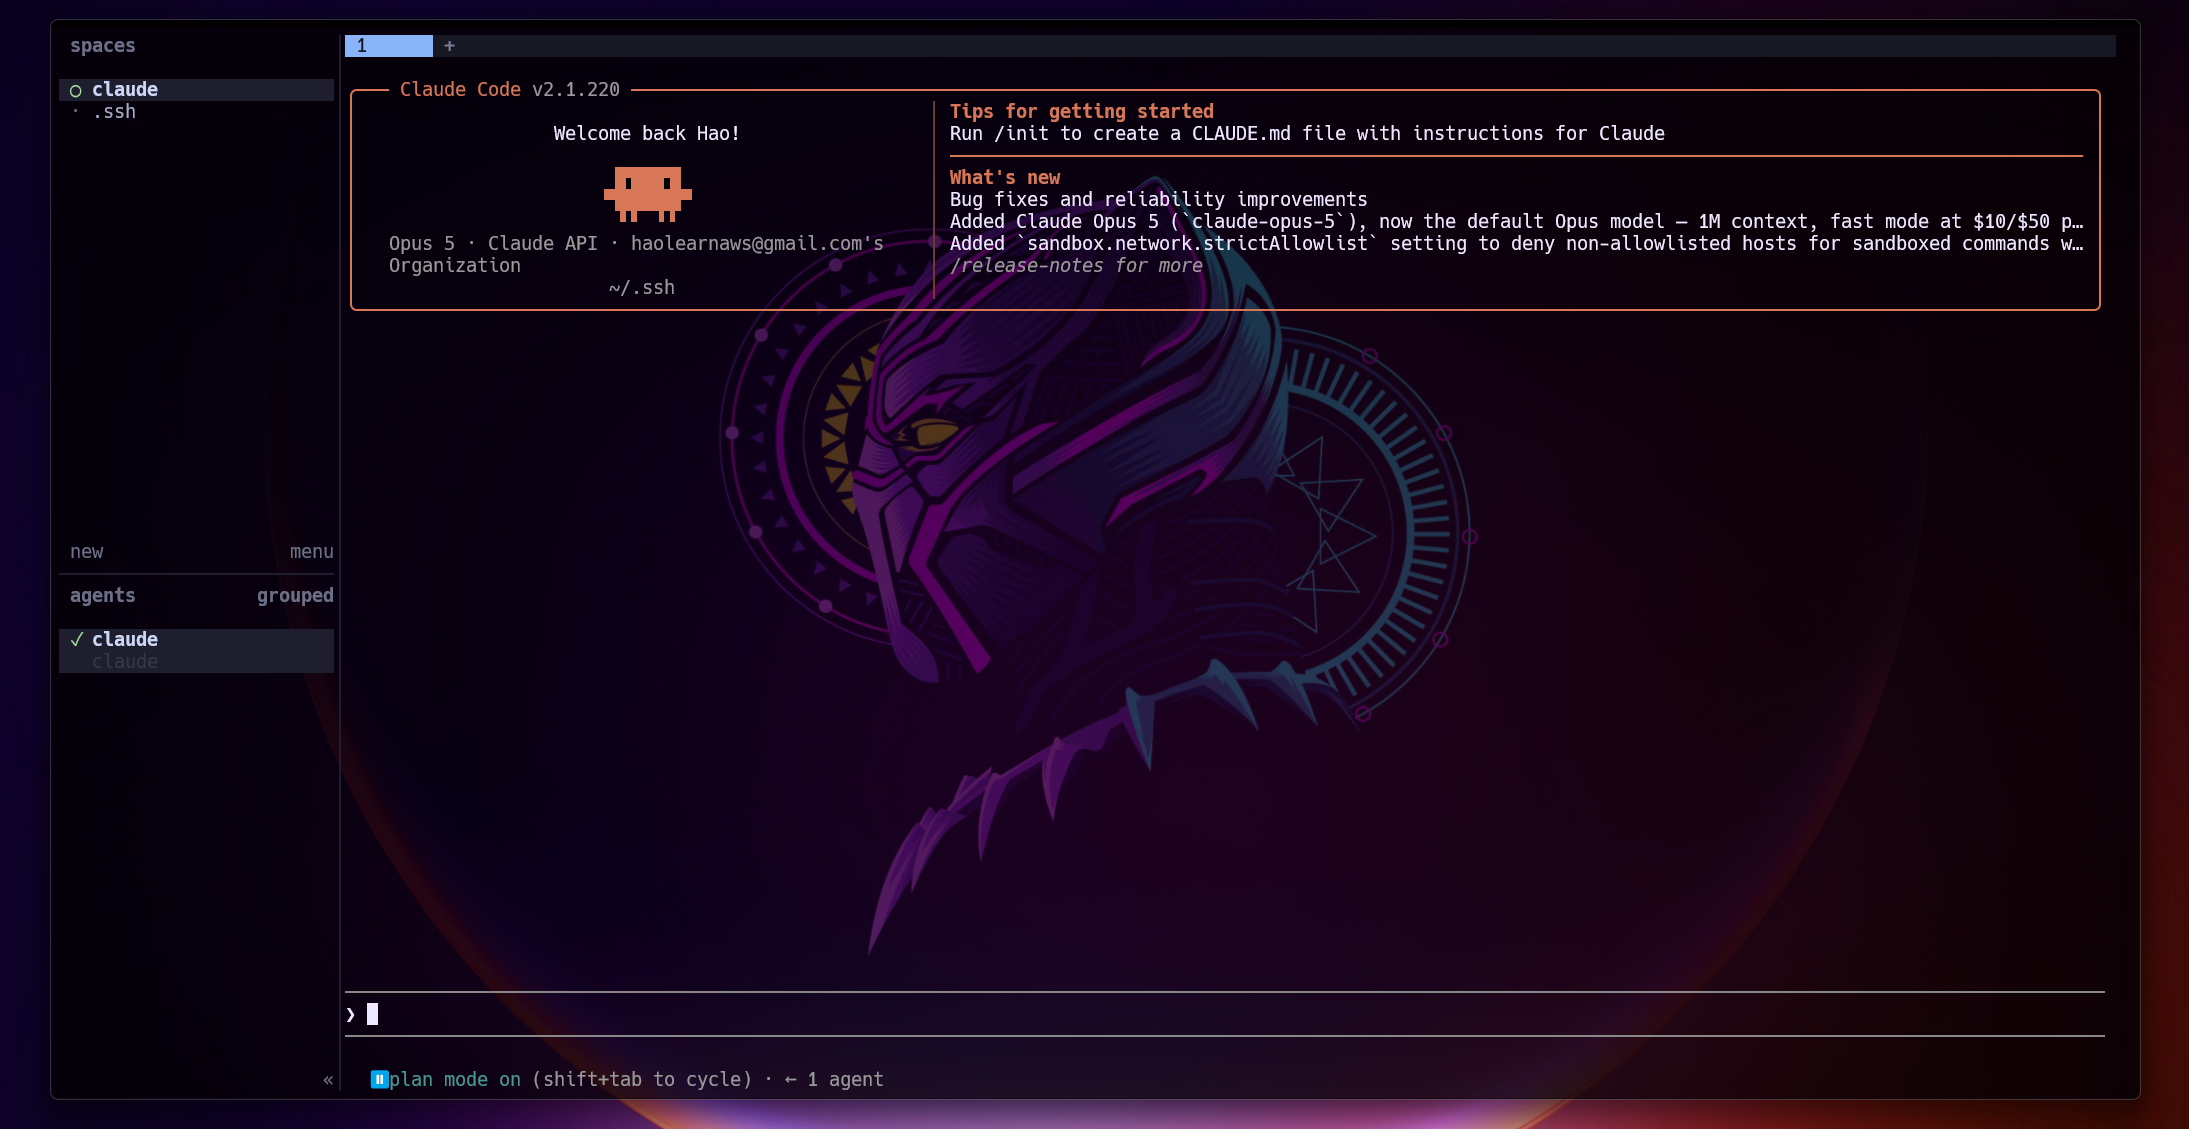
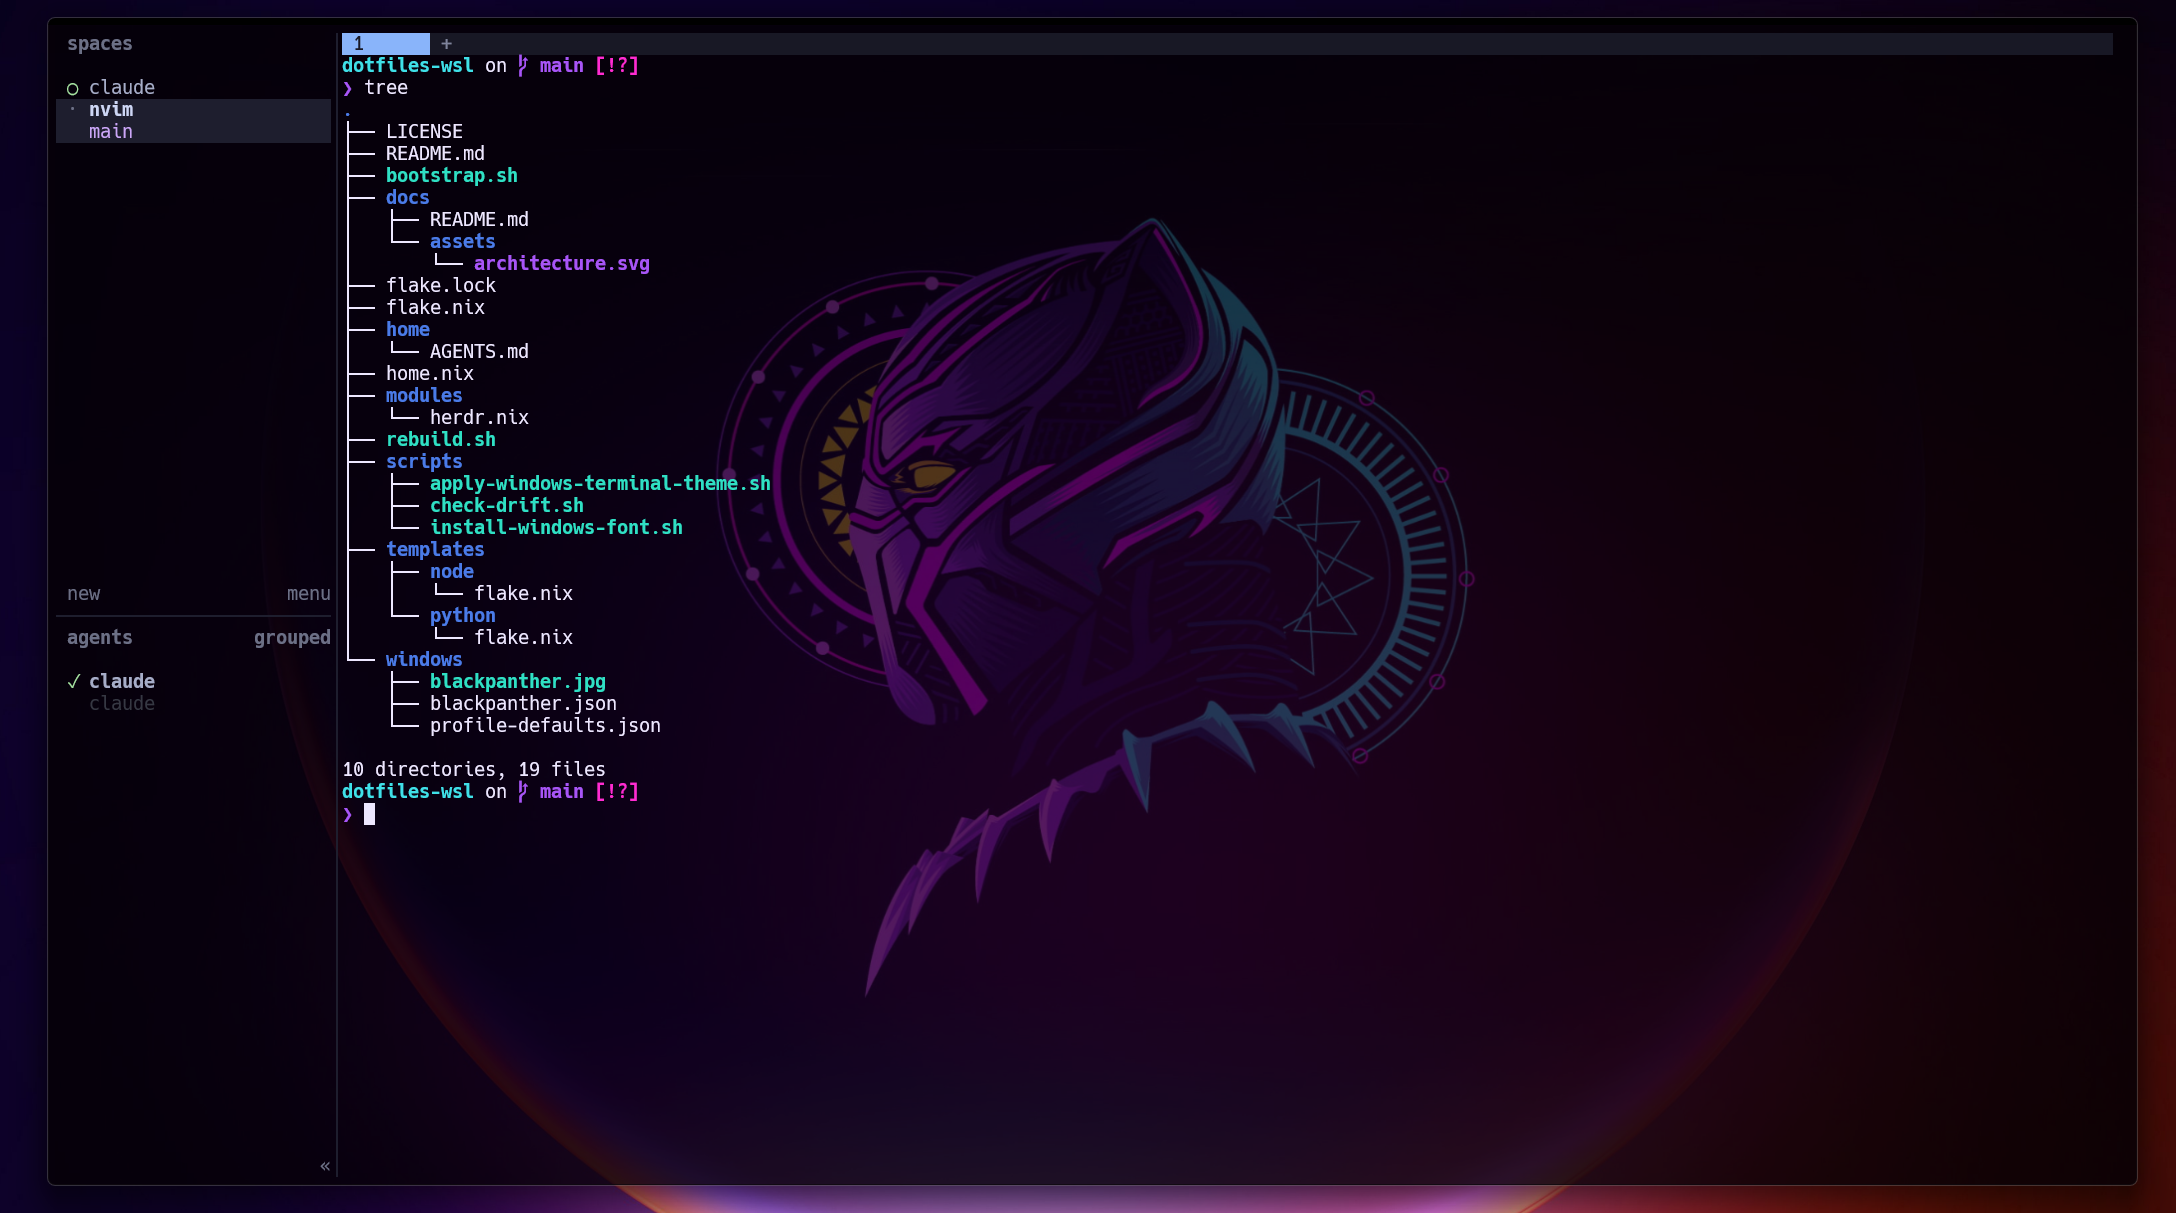
README: swap the screenshot for one showing the repo itself (#7)
The first screenshot showed a Claude Code session, which demonstrated
the terminal setup but said nothing about this repo. This one runs
`tree` over the repo instead, so the same frame shows both: the theme,
font and multiplexer on one side, and bootstrap.sh, rebuild.sh,
home.nix, scripts/ and templates/ on the other.

It also drops an email address that was visible in the old shot's
header. Harmless on a repo page, less so once the image travels.

Alt text rewritten to match - it described the Claude Code session and
would otherwise have been wrong for every screen reader.

Losslessly optimised with oxipng (816K -> 580K, pixel-identical).

diff --git a/README.md b/README.md
@@ -20,12 +20,12 @@ had before.
 
 <p align="center">
   <img src="docs/assets/screenshot.png" width="900"
-       alt="Windows Terminal after setup. herdr runs down the left with its spaces and agents panels; a Claude Code session fills the main pane. The blackpanther colour scheme and its background image show through the terminal's opacity, drawn in Hack Nerd Font.">
+       alt="Windows Terminal after setup, running herdr. The main pane shows tree output of this repo: bootstrap.sh, rebuild.sh, home.nix, the scripts and templates directories. herdr's spaces and agents panels run down the left. The blackpanther colour scheme and its background image show through the terminal's opacity, drawn in Hack Nerd Font.">
 </p>
 
 <p align="center"><sub>
-After <code>./bootstrap.sh</code>: herdr holding a session, the blackpanther
-scheme showing through, in Hack Nerd Font.
+After <code>./bootstrap.sh</code>: the repo itself, listed inside herdr, with the
+blackpanther scheme showing through in Hack Nerd Font.
 </sub></p>
 
 ## Contents
